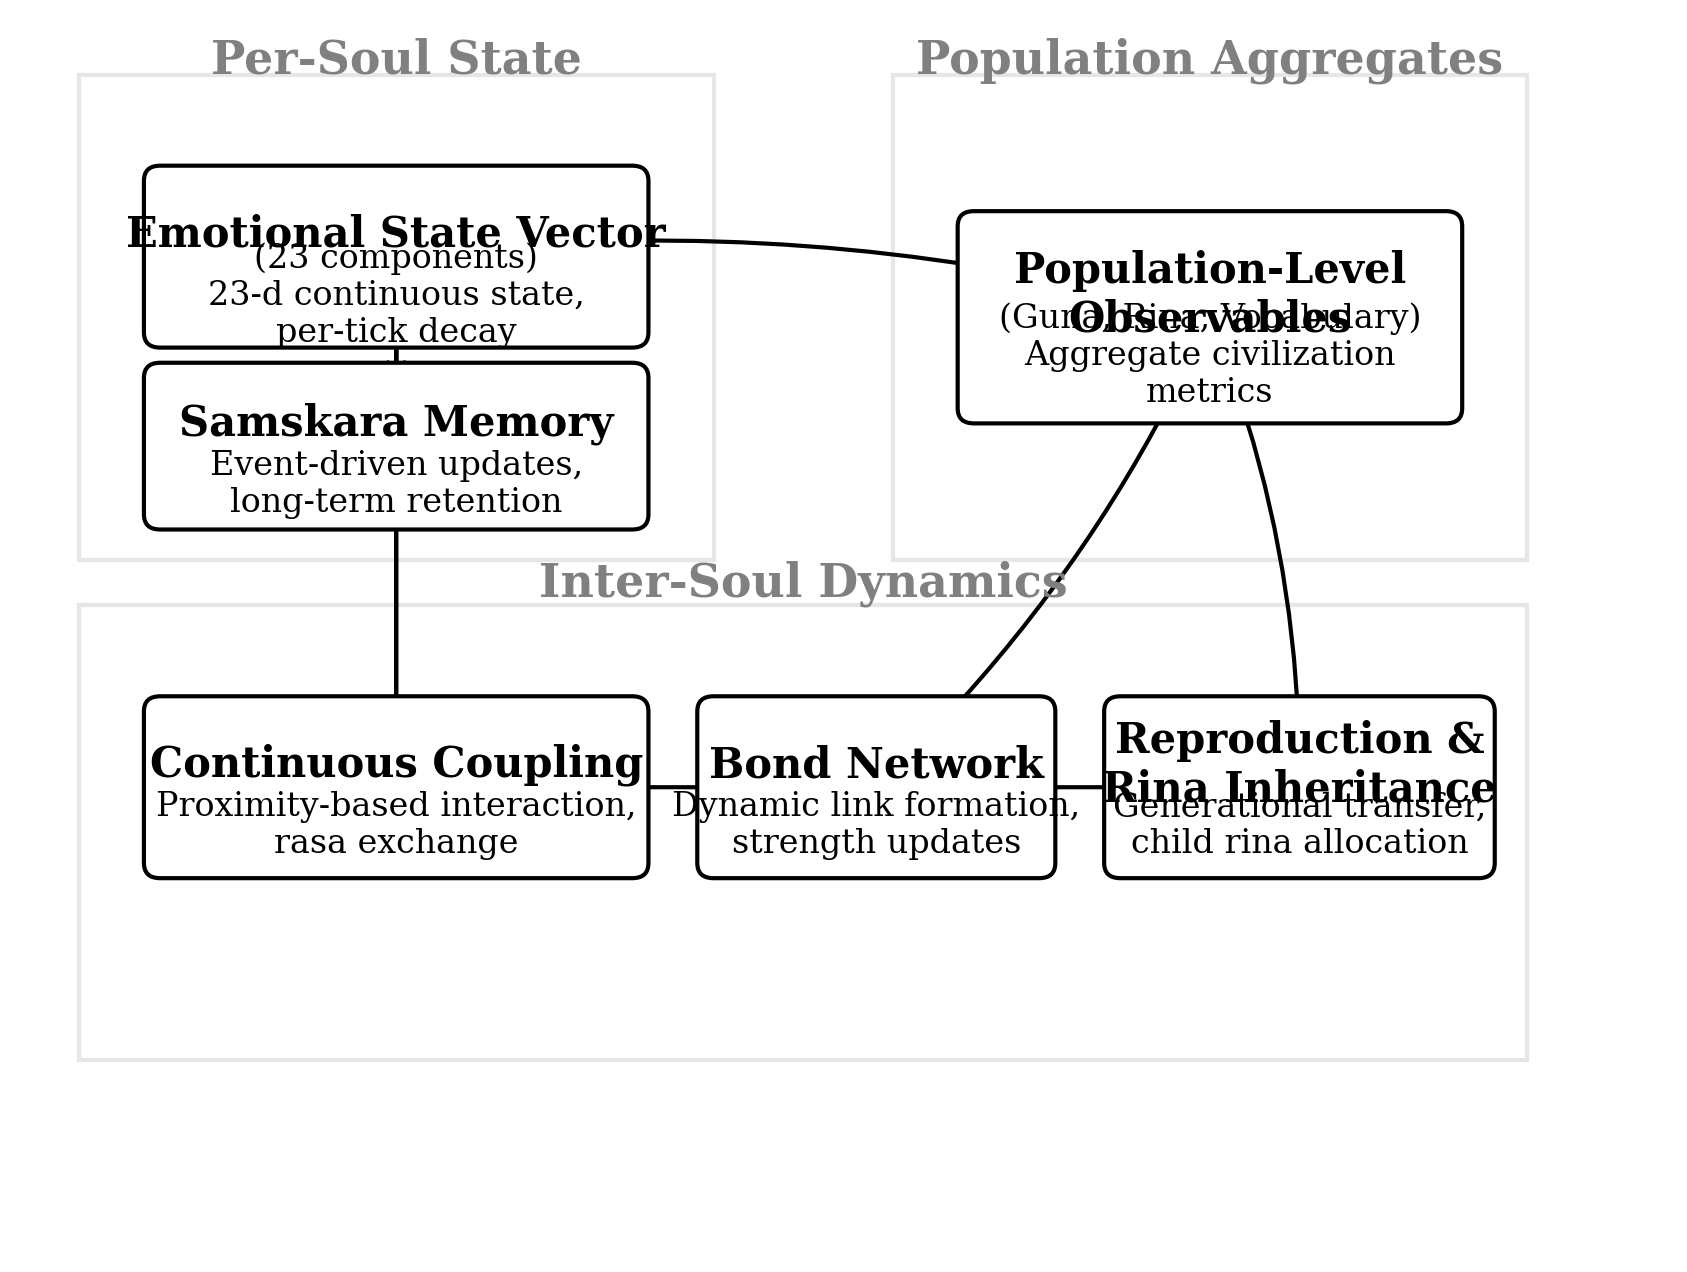
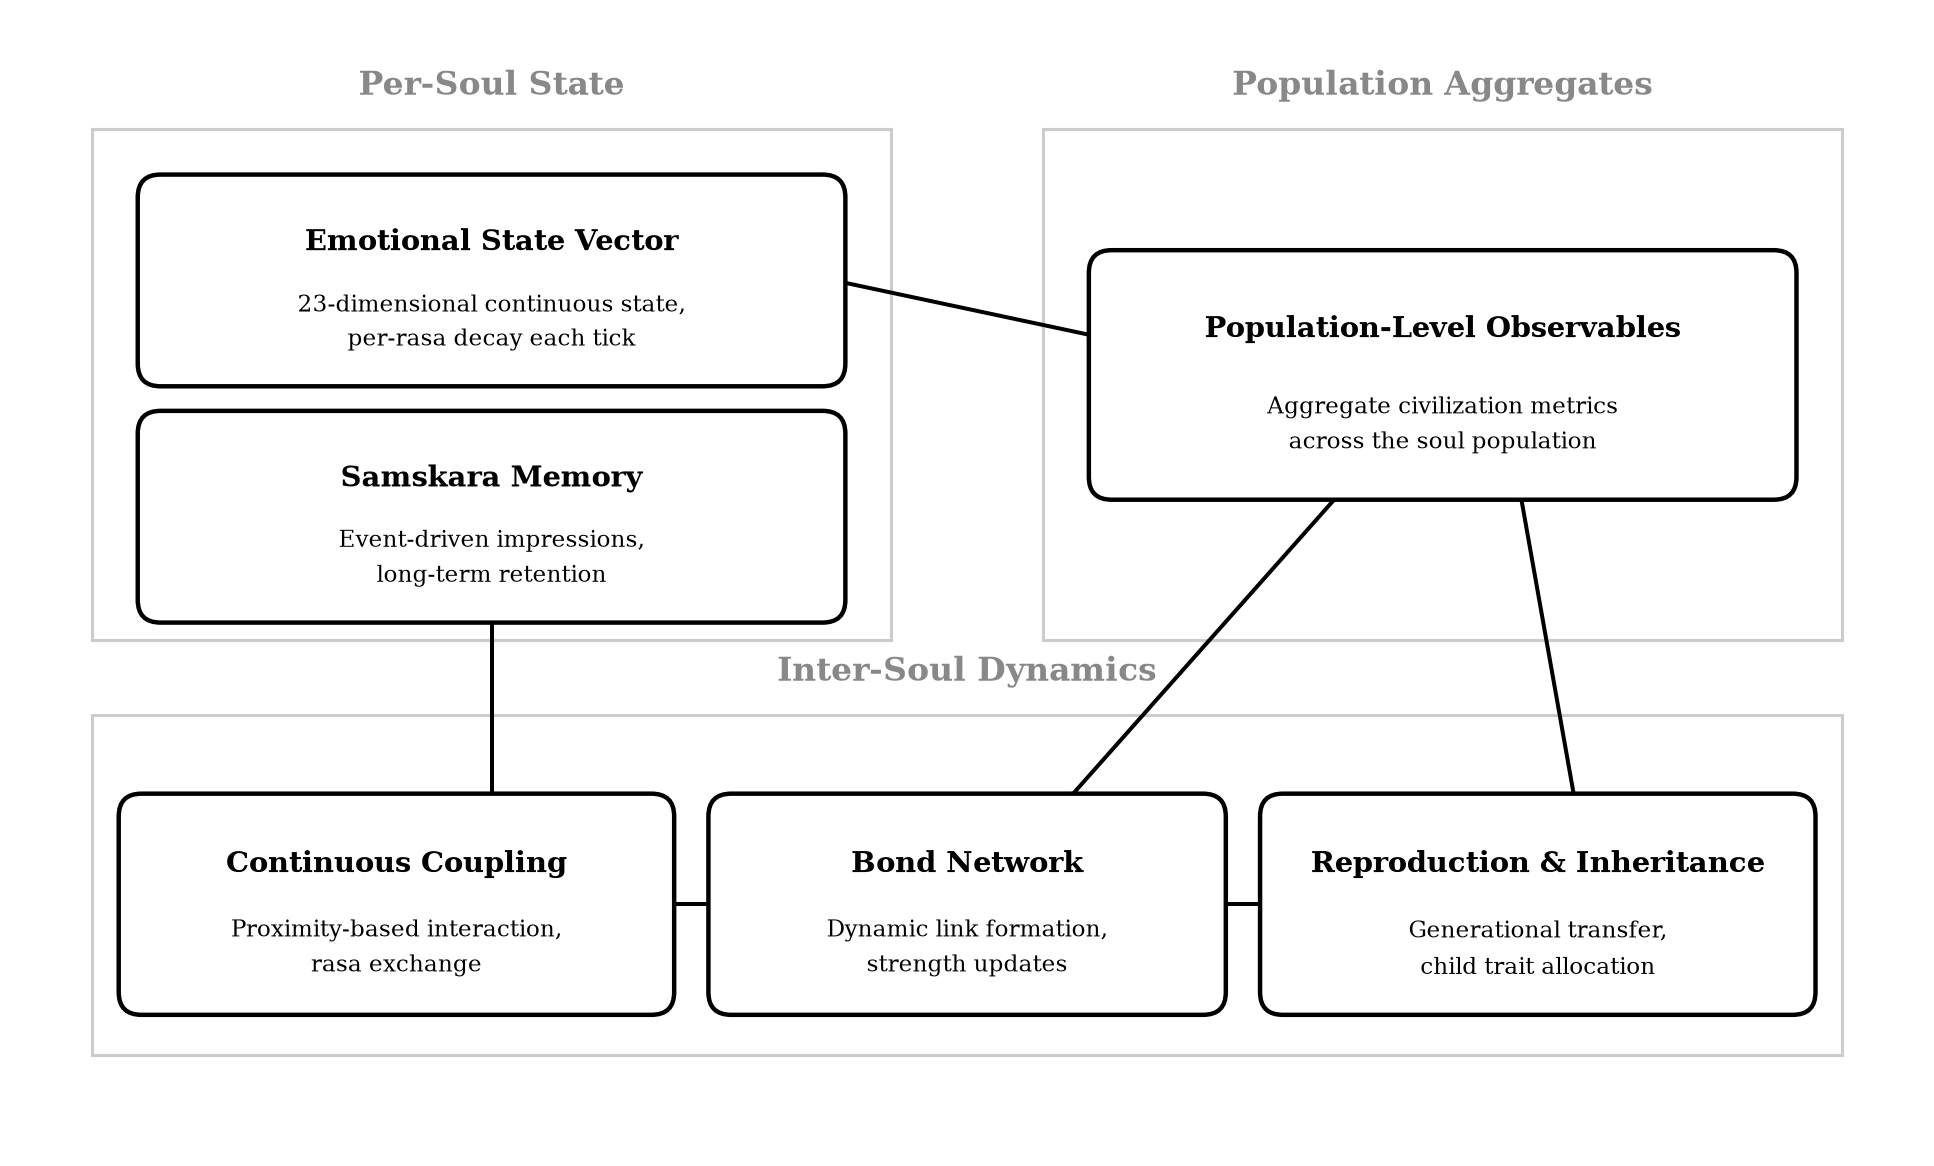
Fix architecture figure: box titles were drawn over their own body text
The paper version renders 'Emotional State Vector' on top of '(23 components)',
'Population-Level Observables' over its subtitle, and 'Reproduction & Rina
Inheritance' over 'Generational transfer'. Redrawn with titles and body text at
separate anchors; content unchanged.

figures/make_fig1.py regenerates it. The data figures (fig2-4) were already clean.

diff --git a/figures/make_fig1.py b/figures/make_fig1.py
@@ -1,0 +1,97 @@
+"""Regenerate the architecture diagram.
+
+The version in the published paper has colliding text — box titles are drawn over
+their own body text. This redraws the same architecture with the layout fixed.
+Content is unchanged; only spacing and placement differ.
+
+Run: python figures/make_fig1.py
+"""
+import matplotlib
+matplotlib.use("Agg")
+import matplotlib.pyplot as plt
+from matplotlib.patches import FancyBboxPatch, Rectangle
+
+plt.rcParams["font.family"] = "serif"
+plt.rcParams["font.serif"] = ["DejaVu Serif", "Times New Roman"]
+
+FIG_W, FIG_H = 12, 7.2
+fig, ax = plt.subplots(figsize=(FIG_W, FIG_H))
+ax.set_xlim(0, 100)
+ax.set_ylim(0, 60)
+ax.axis("off")
+
+GROUP = dict(facecolor="none", edgecolor="#cccccc", linewidth=1.4, zorder=1)
+BOX = dict(boxstyle="round,pad=0.6,rounding_size=1.2", facecolor="white",
+           edgecolor="black", linewidth=2.0, zorder=3)
+
+
+def group(x, y, w, h, label):
+    ax.add_patch(Rectangle((x, y), w, h, **GROUP))
+    ax.text(x + w / 2, y + h + 1.4, label, ha="center", va="bottom",
+            fontsize=15, fontweight="bold", color="#888888", zorder=2)
+
+
+def box(cx, cy, w, h, title, body):
+    ax.add_patch(FancyBboxPatch((cx - w / 2, cy - h / 2), w, h, **BOX))
+    # title sits in the upper half, body in the lower half — the collision in the
+    # original came from drawing both at the same anchor
+    ax.text(cx, cy + h * 0.20, title, ha="center", va="center",
+            fontsize=13, fontweight="bold", zorder=4)
+    ax.text(cx, cy - h * 0.22, body, ha="center", va="center",
+            fontsize=10.5, linespacing=1.5, zorder=4)
+
+
+def link(p, q):
+    ax.plot([p[0], q[0]], [p[1], q[1]], color="black", linewidth=1.8, zorder=2)
+
+
+# ── groups ──────────────────────────────────────────────────────────────────
+group(4, 27, 42, 27, "Per-Soul State")
+group(54, 27, 42, 27, "Population Aggregates")
+group(4, 5, 92, 18, "Inter-Soul Dynamics")
+
+# ── per-soul state ──────────────────────────────────────────────────────────
+esv = (25, 46)
+box(*esv, 36, 10,
+    "Emotional State Vector",
+    "23-dimensional continuous state,\nper-rasa decay each tick")
+
+sam = (25, 33.5)
+box(*sam, 36, 10,
+    "Samskara Memory",
+    "Event-driven impressions,\nlong-term retention")
+
+# ── population aggregates ───────────────────────────────────────────────────
+pop = (75, 41)
+box(*pop, 36, 12,
+    "Population-Level Observables",
+    "Aggregate civilization metrics\nacross the soul population")
+
+# ── inter-soul dynamics ─────────────────────────────────────────────────────
+cpl = (20, 13)
+box(*cpl, 28, 10.5,
+    "Continuous Coupling",
+    "Proximity-based interaction,\nrasa exchange")
+
+bnd = (50, 13)
+box(*bnd, 26, 10.5,
+    "Bond Network",
+    "Dynamic link formation,\nstrength updates")
+
+rep = (80, 13)
+box(*rep, 28, 10.5,
+    "Reproduction & Inheritance",
+    "Generational transfer,\nchild trait allocation")
+
+# ── connections ─────────────────────────────────────────────────────────────
+link((43, 46), (57, 43))       # emotional state -> population observables
+link((25, 28.4), (25, 18.2))     # samskara -> continuous coupling
+link((34, 13), (37, 13))         # coupling -> bond network
+link((63, 13), (66, 13))         # bond network -> reproduction
+link((55, 18.2), (70, 35.2))     # bond network -> population observables
+link((82, 18.2), (79, 35.2))     # reproduction -> population observables
+
+fig.tight_layout(pad=0.4)
+out = __file__.replace("make_fig1.py", "fig1_architecture.png")
+fig.savefig(out, dpi=160, facecolor="white", bbox_inches="tight")
+print(f"wrote {out}")
